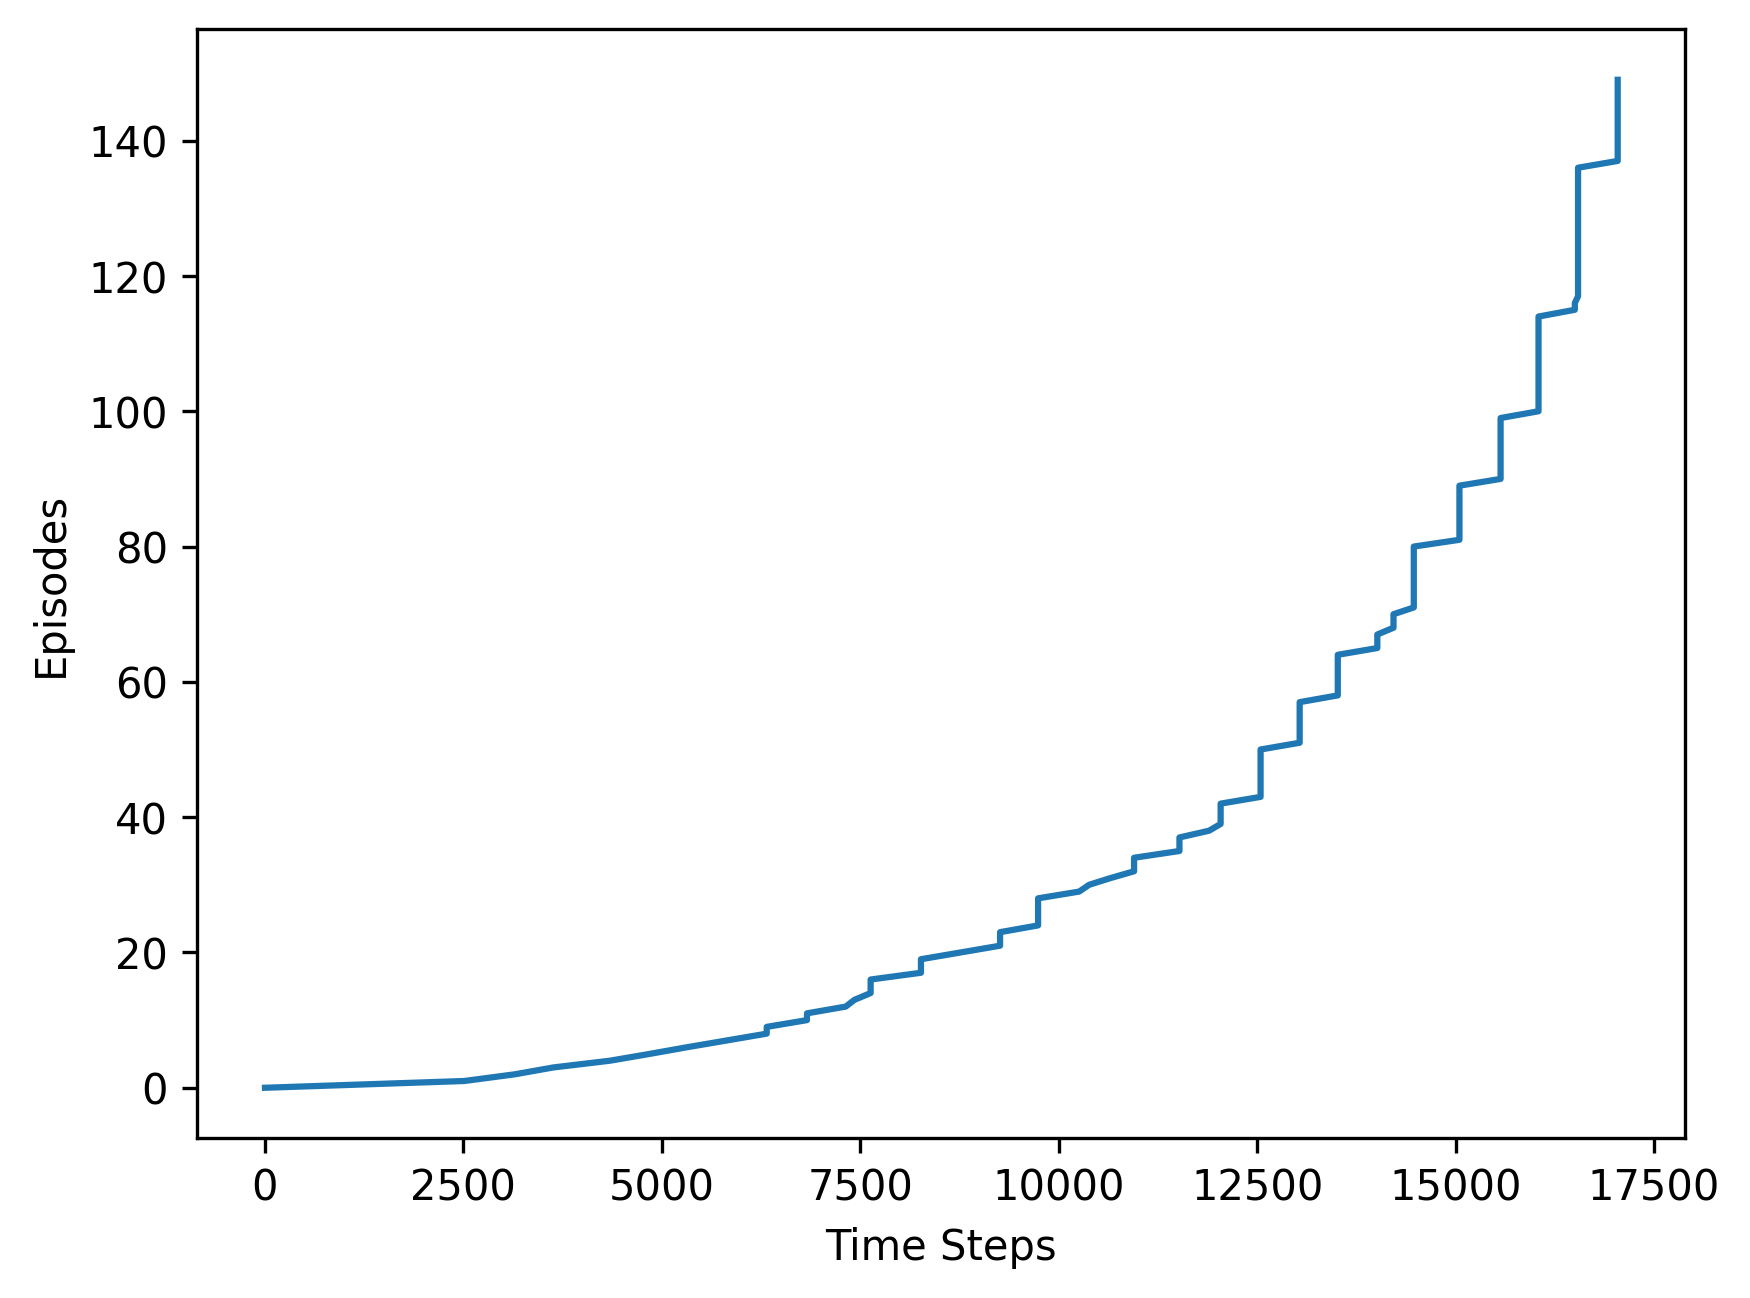
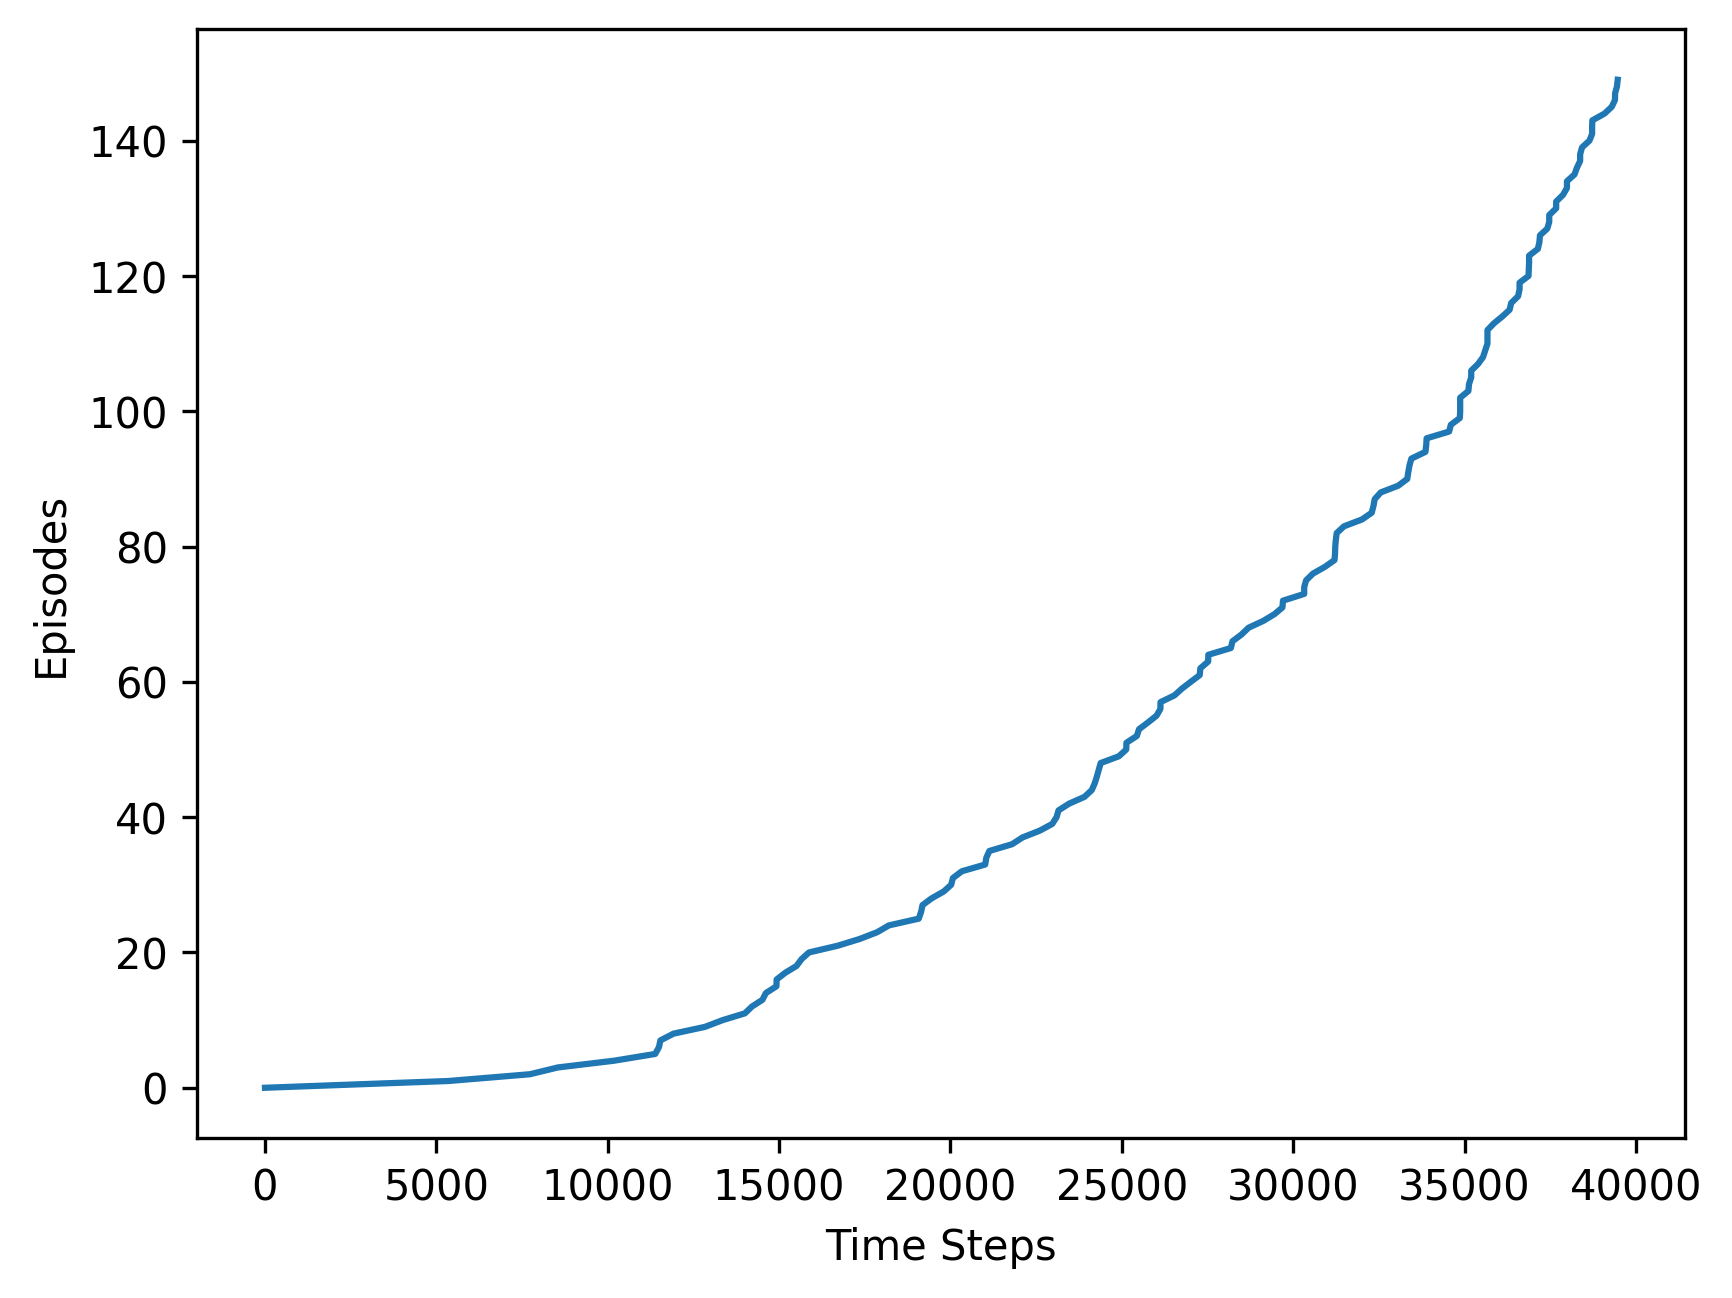
Averaged Samples

diff --git a/Windy Gridworld/Windy World/WindyWorld.py b/Windy Gridworld/Windy World/WindyWorld.py
@@ -52,7 +52,7 @@ class Agent:
         self.current_state = self.states[self.row][self.col]
         self.next_state = self.states[self.row][self.col]
 
-    def episode(self, step_size, gamma, display_actions):
+    def sarsa_episode(self, step_size, gamma, display_actions):
         action_taken = 0
         while not self.episode_complete:
             if self.col == 7 and self.row == 3:
@@ -92,22 +92,23 @@ class Agent:
                         for change in range(y_change):
                             file.write("S ")
 
-
                 self.current_state = self.states[self.row][self.col]
 
         self.episode_complete = False
 
 
 file = open(r"Windy Solution.txt", "w")
-agent = Agent()
 step_size = 0.5
-start_time = time.time()
-times = []
-for i in range(150):
-    times.append(500000*(time.time() - start_time))
-    agent.episode(0.5, 1, False)
-agent.episode(0.5, 1, True)
+times = [0]*150
+for j in range(100):
+    agent = Agent()
+    start_time = time.time()
+    for i in range(150):
+        times[i] += 25000*(time.time() - start_time)
+        agent.sarsa_episode(0.5, 1, False)
 
+agent = Agent()
+agent.sarsa_episode(0.5, 1, False)
 episodes = list(range(0, 150, 1))
 plt.xlabel("Time Steps")
 plt.ylabel("Episodes")
